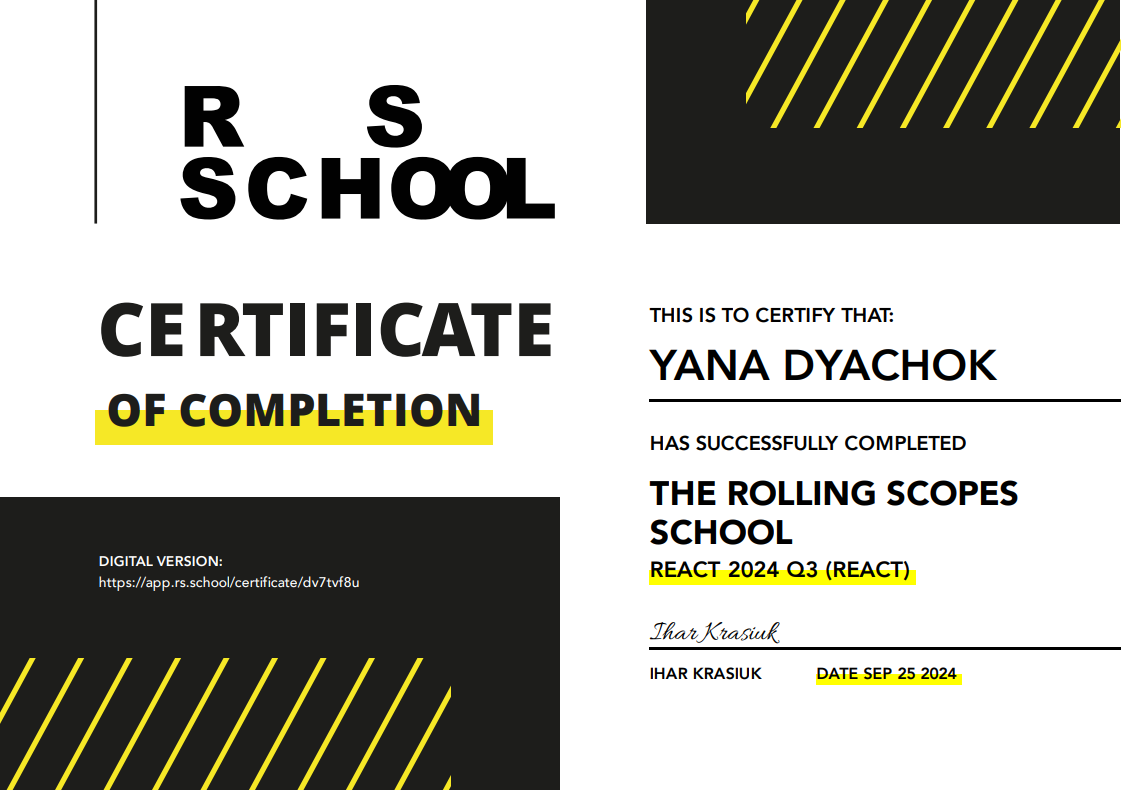
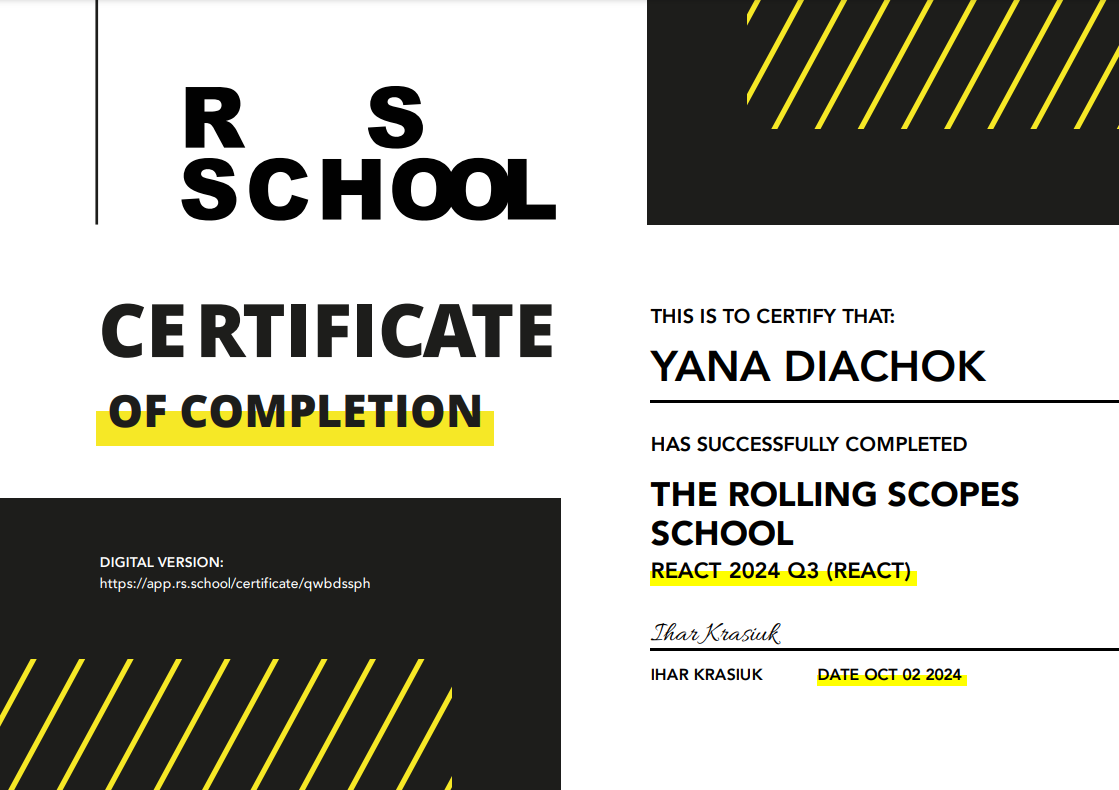
feat: add files

diff --git a/README.md b/README.md
@@ -52,7 +52,7 @@ Battleship-game                  |   [Battleship-game](https://github.com/Yana-D
 ### 🎓 Certificates:
 
  #### <img width="648" style="max-width: 100%; height: auto;" alt="rss-js0" src="./img/certificates/react.png"> 
- 📜<a href="https://app.rs.school/certificate/dv7tvf8u" target="_blank">React</a>
+ 📜<a href="https://app.rs.school/certificate/qwbdssph" target="_blank">React</a>
  #### <img width="648" style="max-width: 100%; height: auto;" alt="rss-js2" src="./img/certificates/s2.png">
  📜 <a href="https://app.rs.school/certificate/zzhtzjbg" target="_blank">JavaScript/Front-end</a>
  #### <img width="648" style="max-width: 100%; height: auto;" alt="rss-react" src="./img/certificates/s0.png">
